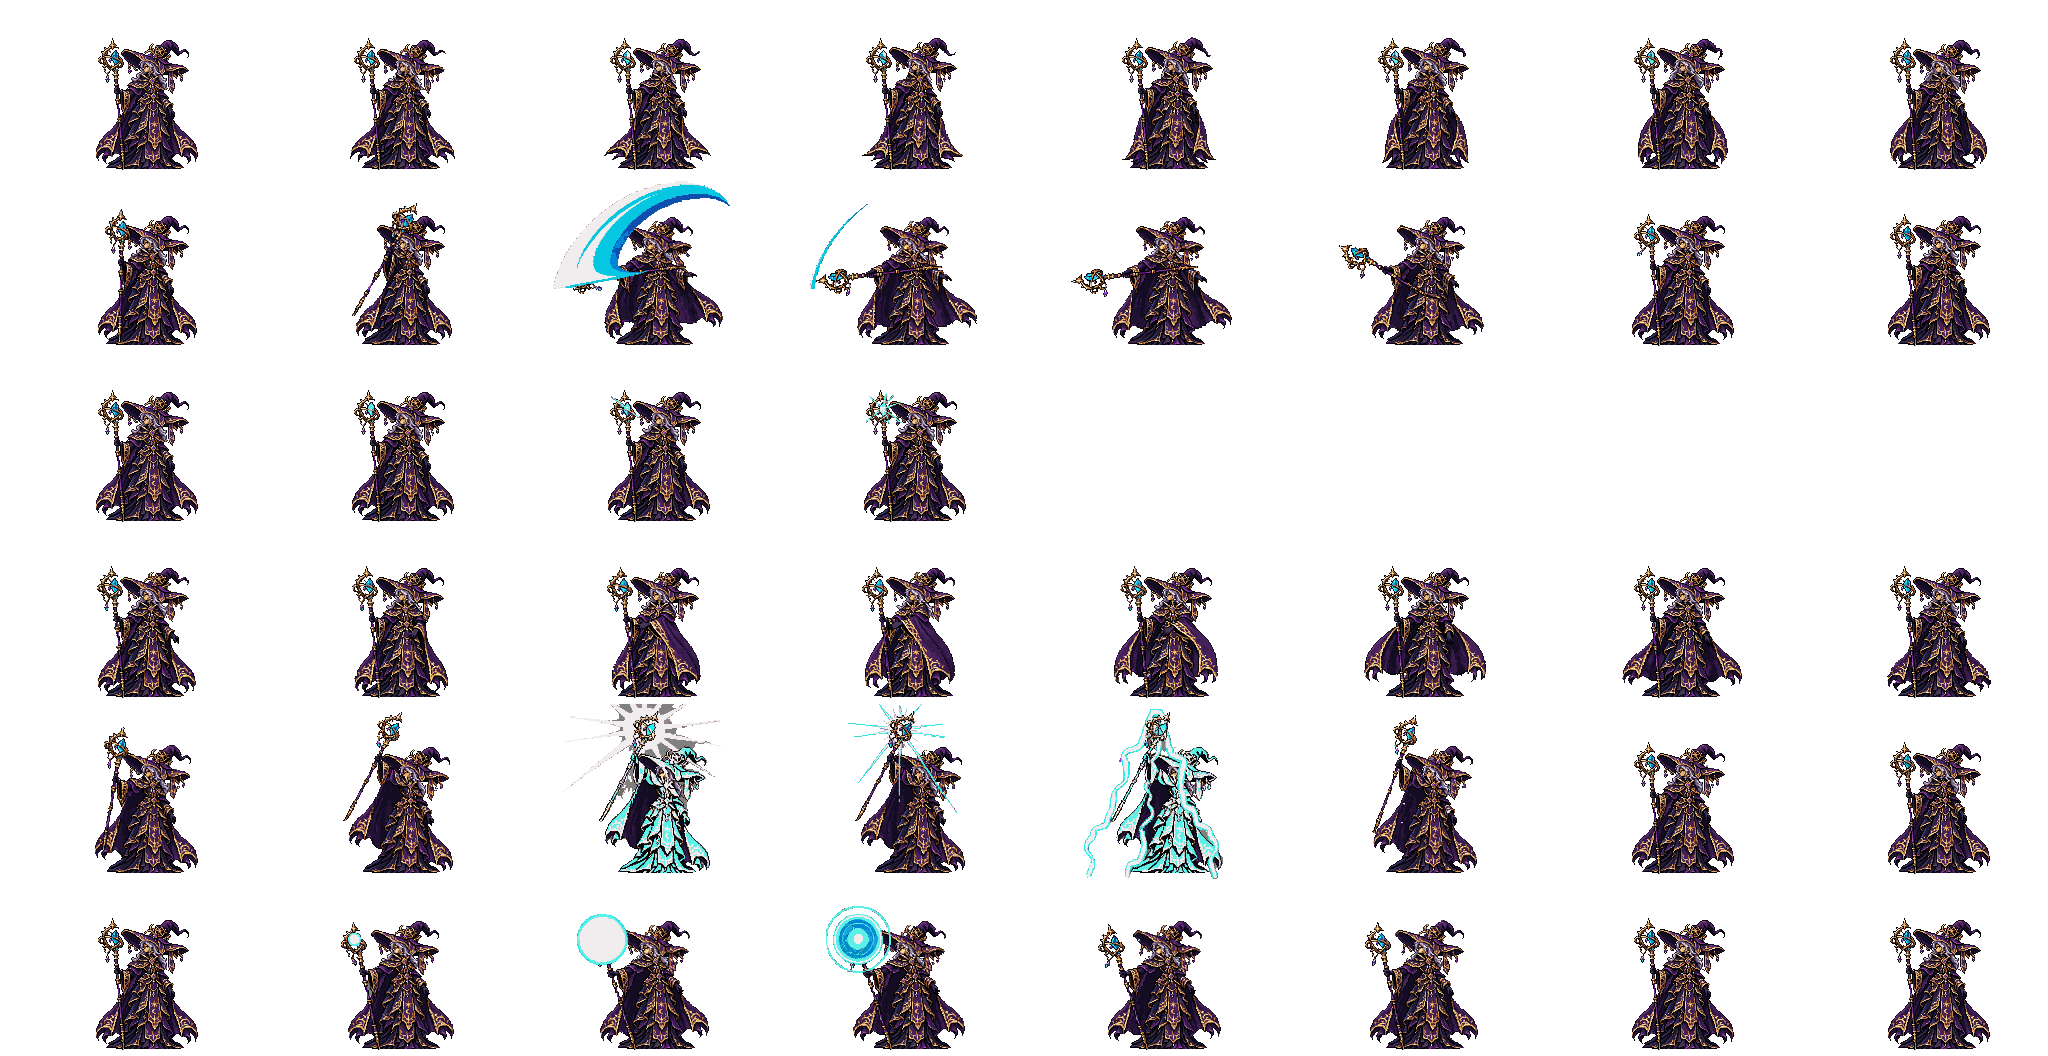
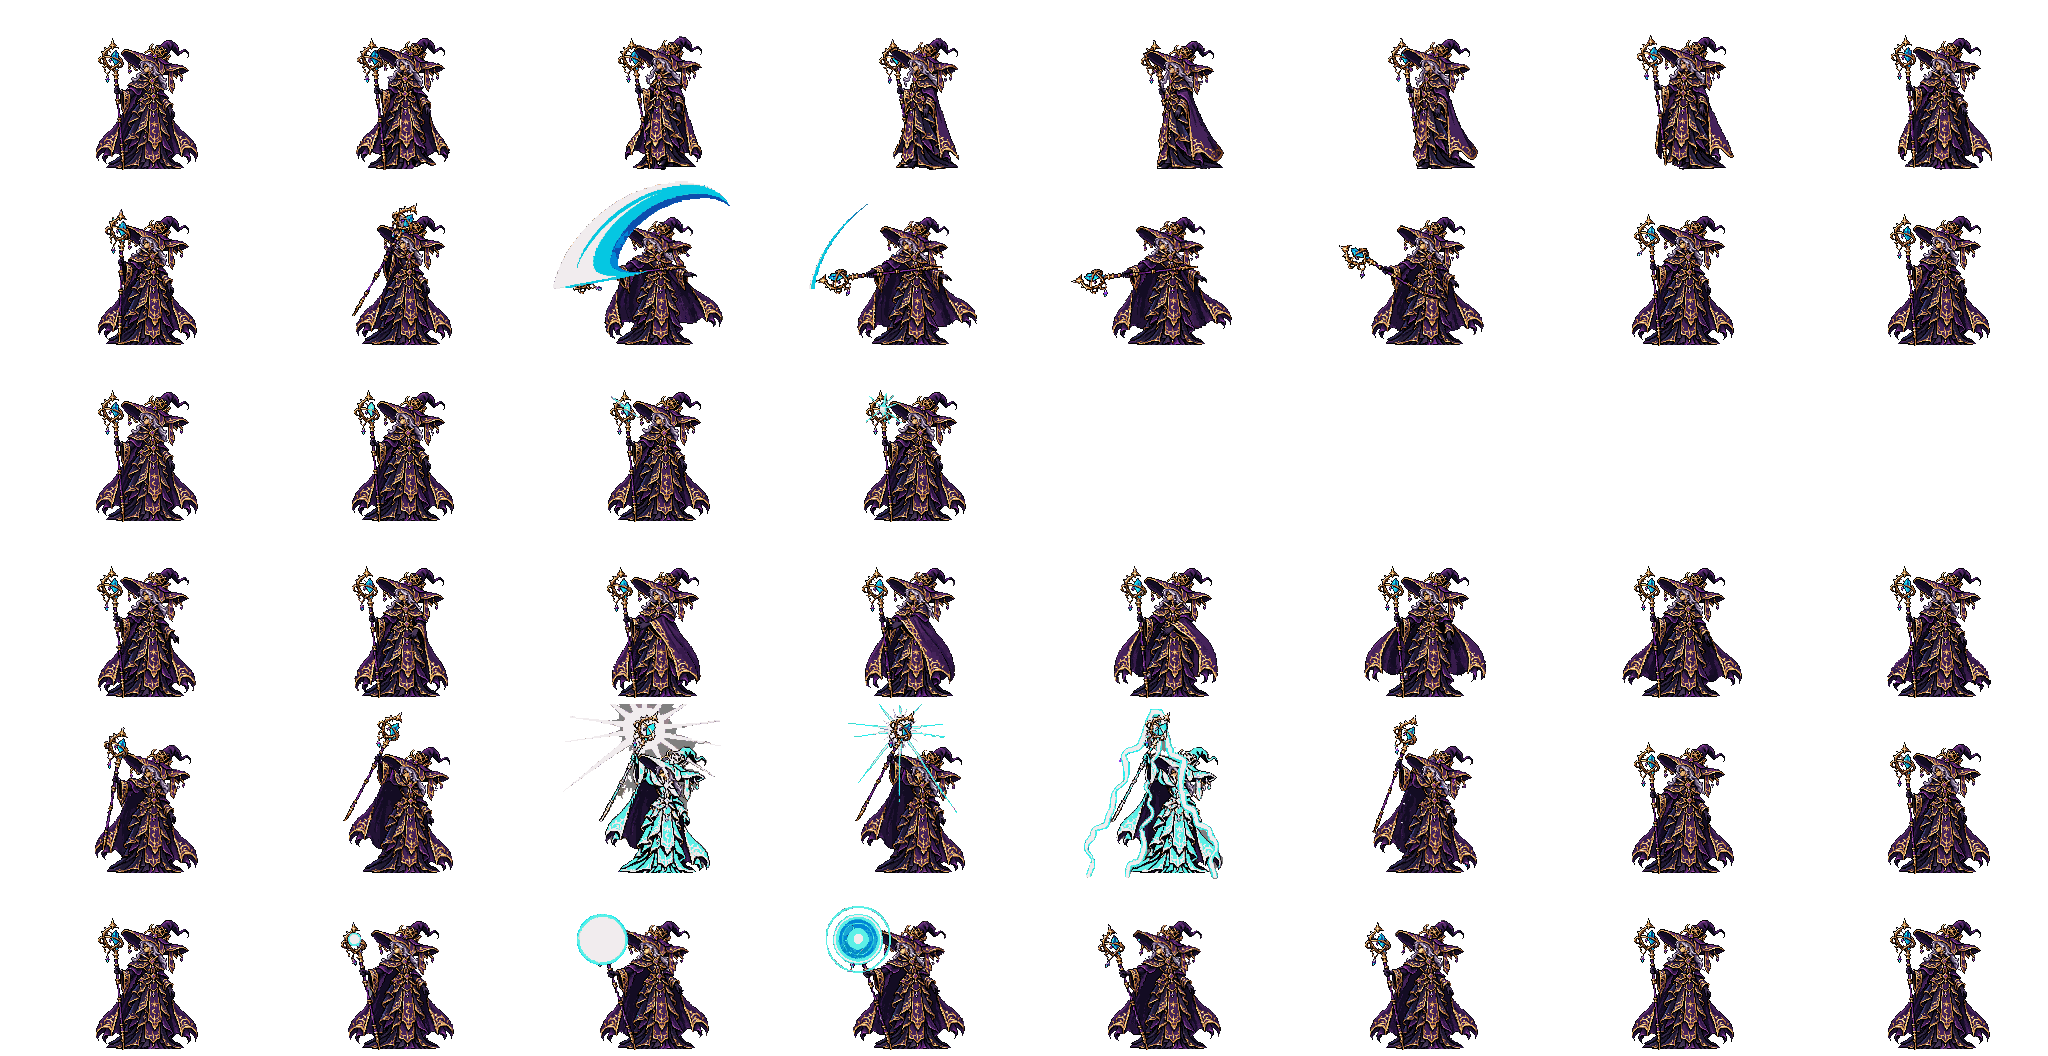
코드 최적화

diff --git a/view.py b/view.py
@@ -15,7 +15,6 @@ from asset_paths import asset_path
 import boss_skills
 import late_monster_motion
 from monster_attack import attack_pose, draw_attack_effect, draw_posed, draw_sheet, load_attack_fx, skill_pose
-from monster_walk import MONSTER_GAITS, MonsterWalk
 import player_attack
 from poison_fx import PoisonFx
 import pixel_sprites
@@ -187,10 +186,6 @@ class View:
         )
         for background in self.beast_jump_backgrounds:
             sdl2.SDL_SetTextureScaleMode(background.texture, sdl2.SDL_ScaleModeLinear)
-        self.floor_arenas = {
-            index: load_asset(f'층별맵/구간{index + 1:02d}_보스방.png')
-            for index in (2, 5, 8)
-        }
         self.boss_tall_arenas = {
             2: load_asset('map_sections/jailer_double_height_concept.png'),
             5: load_asset('map_sections/witch_double_height_concept.png'),
@@ -249,25 +244,12 @@ class View:
                       for row in range(2) for column in range(4)]
             self.monster_echo_walk[name] = WalkCycle(sheet, frames, ENEMY_KINDS[name].size, 9)
         self.attack_fx = load_attack_fx(ASSETS / 'attack_fx')
-        self.enemy_walk = {
-            name: MonsterWalk(load_asset(gait.sheet), gait)
-            for name, gait in MONSTER_GAITS.items()
-            if asset_path(gait.sheet).exists()   # 새 시트로 바꾸려고 지운 부위 그림은 건너뛰고 서 있는 그림으로 그린다
-        }
-        spider = load_asset('monster_spider_walk_sheet.png')
-        cell_w, cell_h = spider.w // 4, spider.h // 2
-        spider_frames = [(column * cell_w, row * cell_h + round(cell_h * 0.20),
-                          cell_w, round(cell_h * 0.65))
-                         for row in range(2) for column in range(4)]
-        self.enemy_walk['crawler'] = WalkCycle(spider, spider_frames, 70, 9)
-        for name, asset in (
-            ('magic_armor', 'magic-armor'), ('magic_armor_guard', 'magic-armor'), ('witch', 'witch'),
-        ):
-            sheet = load_asset(f'monster_concepts/{asset}-walk.png')
-            width, height = sheet.w // 4, sheet.h // 2
-            frames = [(column * width, row * height, width, height)
-                      for row in range(2) for column in range(4)]
-            self.enemy_walk[name] = WalkCycle(sheet, frames, ENEMY_KINDS[name].size, 9)
+        # 옛 걷기 그림은 마법 갑옷·갑옷 경비병만 쓴다 (나머지 몬스터는 PixelLab 시트나 후반 몬스터 모션)
+        armor = load_asset('monster_concepts/magic-armor-walk.png')
+        width, height = armor.w // 4, armor.h // 2
+        frames = [(column * width, row * height, width, height) for row in range(2) for column in range(4)]
+        self.enemy_walk = {name: WalkCycle(armor, frames, ENEMY_KINDS[name].size, 9)
+                           for name in ('magic_armor', 'magic_armor_guard')}
         self.enemies['magic_book'] = load_asset('monster_concepts/magic-book-sprite.png')
         self.enemies['potion_slime'] = load_asset('monster_concepts/potion-slime-sprite.png')
 
@@ -1083,22 +1065,15 @@ class View:
                 # 공격 중에는 monster_attack.py의 자세 스크립트대로 그린다.
                 actor = screen_enemy.actor
                 walk = self.enemy_walk.get(enemy.spawn.kind)
-                if isinstance(walk, MonsterWalk):
-                    actor.x += actor.facing * pose.dx
-                    walk.draw(actor, y + pose.dy, faces=-1, tint=tint, lean=pose.angle)
-                elif walk is not None:
+                if walk is not None:
                     frame = walk.frames[int(actor.walk_distance / walk.stride_per_frame) % len(walk.frames)]
                     draw_posed(walk.image, frame, x, y, walk.draw_height, actor.facing, pose, tint)
                 else:
                     image = self.enemies[enemy.spawn.kind]
                     draw_posed(image, (0, 0, image.w, image.h), x, y, kind.size, actor.facing, pose, tint)
                 draw_attack_effect(self.attack_fx, enemy.spawn.kind, x, y, actor.facing, enemy.windup, enemy.recovery)
-            elif enemy.spawn.kind in ('magic_armor', 'magic_armor_guard', 'witch'):
+            elif enemy.spawn.kind in self.enemy_walk:
                 self.enemy_walk[enemy.spawn.kind].draw(screen_enemy.actor, y, faces=-1, tint=tint)
-            elif enemy.actor.moving and enemy.spawn.kind in self.enemy_walk:
-                self.enemy_walk[enemy.spawn.kind].draw(
-                    screen_enemy.actor, y, faces=-1, tint=tint,
-                )
             else:
                 self._sprite(self.enemies[enemy.spawn.kind], screen_enemy.actor, kind.size, world.time, feet=feet, faces=-1, tint=tint)
             # 머리 위에 이름과 체력바. 벨 수 없는 적은 이름만 흐리게 보인다.

diff --git a/world.py b/world.py
@@ -30,7 +30,6 @@ ECHO_INVULNERABILITY = 0.92
 # 거미줄 그네 (거미 분신 전용). F로 붙이고 ←→로 반동, ↑↓로 줄을 감고 풀고,
 # Space로 흔들리던 속도 그대로 날아가며 놓거나 D로 그 자리에서 놓는다. 매달린 채 F를 다시 쏘면 새 지점에 옮겨 붙는다.
 SPIDER_WEB_TOP = 150       # 거미줄을 붙이는 천장 높이 (바닥 위)
-SPIDER_WEB_REACH = 90      # 바라보는 쪽으로 이만큼 앞에 붙인다
 SPIDER_GRAVITY = 1400      # px/s²
 SPIDER_PUMP = 3.2          # ←→로 주는 반동 (rad/s²)
 SPIDER_DAMPING = 0.15      # 초당 흔들림이 줄어드는 비율
@@ -1348,6 +1347,25 @@ class World:
         left, right = sorted((first.x, second.x))
         return not any(left < wall < right for wall in self._barriers(first.floor))
 
+    def _in_reach(self, enemy: Enemy, reach: float) -> bool:
+        """본체의 공격이 적에게 닿는가. 몸 폭(width)이 있는 적(보스)은 그림 크기 상자(폭 × 키)로 본다:
+        공격 범위(앞으로 reach, 뒤로 12)가 몸 폭 구간과 겹치고, 본체 높이가 발밑~머리 사이면 맞는다."""
+        me, it = self.player, enemy.actor
+        kind = ENEMY_KINDS[enemy.spawn.kind]
+        if not kind.width:
+            return (it.x - me.x) * me.facing >= -12 and self._clear_line(me, it, reach)
+        if me.elevator_target is not None or it.elevator_target is not None or me.floor != it.floor:
+            return False
+        half = kind.width / 2
+        low, high = sorted((me.x - me.facing * 12, me.x + me.facing * reach))
+        if high < it.x - half or it.x + half < low:
+            return False
+        if not it.jump_height - 30 <= me.jump_height <= it.jump_height + kind.size:
+            return False
+        nearest = min(max(me.x, it.x - half), it.x + half)   # 몸에서 본체와 가장 가까운 곳
+        left, right = sorted((me.x, nearest))
+        return not any(left < wall < right for wall in self._barriers(me.floor))
+
     def _attack(self, kind='slash'):
         weapon = WEAPONS[self.weapon_index]
         self.attack_kind = kind
@@ -1362,8 +1380,7 @@ class World:
         reach = round(weapon.reach * (0.8 if self.attack_kind == 'slash' else 1.3))
         damage = max(1, attack_power(self.level) + weapon.bonus + (1 if self.attack_kind == 'slash' else 0))
         for enemy in self.enemies:
-            offset = enemy.actor.x - self.player.x
-            if offset * self.player.facing < -12 or not self._clear_line(self.player, enemy.actor, reach):
+            if not self._in_reach(enemy, reach):
                 continue
             self.hit_sparks.append([enemy.actor.x, enemy.actor.floor, 0.0])
             if enemy.health is None:

diff --git a/stages.py b/stages.py
@@ -3,7 +3,6 @@ from math import pi, sin
 
 
 LEFT, RIGHT = 48, 2192
-FLOOR_Y = (156, 320, 484)
 STEP = 1 / 60
 MOVE_SPEED = 230
 MAX_RECORD_SECONDS = 10
@@ -189,6 +188,7 @@ class EnemyKind:
     damage: int = 0          # 본체가 맞을 때 깎이는 체력
     xp: int = 0              # 처치했을 때 얻는 경험치
     damage_ratio: float = 0  # 일부 적은 본체 최대 체력에 비례해 피해를 준다.
+    width: int = 0           # 그림의 몸 폭. 본체 공격은 폭 × 키(size) 상자에 닿으면 맞는다. 0이면 점으로 본다
 
 
 ENEMY_KINDS = {
@@ -198,7 +198,7 @@ ENEMY_KINDS = {
     'crawler': EnemyKind('monster_spider.png', 88, 185, 38, 10, 100, damage=7, xp=10),
     # 층 유령: 정해진 높이에서 좌우로 떠다니며 닿으면 최대 체력의 35% (세 번 닿으면 쓰러진다).
     'tier_ghost': EnemyKind('monster_03_watcher.png', 60, 0, 30, 8, 70, xp=6, damage_ratio=0.35),
-    'jailer_boss': EnemyKind('monster_concepts/prison-jailer-boss.png', 65, 235, 70, 95, 275, damage=8, xp=80),
+    'jailer_boss': EnemyKind('monster_concepts/prison-jailer-boss.png', 65, 235, 70, 95, 275, damage=8, xp=80, width=240),
     'magic_book': EnemyKind('monster_concepts/magic-book.png', 75, 175, 38, 15, 76, damage=8, xp=10),
     'potion_slime': EnemyKind('monster_concepts/potion-slime.png', 55, 160, 36, 22, 85, damage=9, xp=14),
     'magic_armor': EnemyKind('monster_concepts/magic-armor.png', 65, 180, 48, 32, 115, damage=11, xp=20),
@@ -207,8 +207,8 @@ ENEMY_KINDS = {
     'time_thief': EnemyKind('monster_concepts/time-thief.png', 65, 175, 42, 20, 108, damage=7, xp=16),
     'cursed_lantern': EnemyKind('monster_concepts/cursed-lantern.png', 70, 185, 42, 16, 112, damage=7, xp=14),
     'broken_jester': EnemyKind('monster_concepts/broken-jester.png', 75, 185, 40, 18, 104, damage=7, xp=15),
-    'grand_witch': EnemyKind('monster_concepts/grand-witch-boss.png', 65, 220, 55, 145, 268, damage=11, xp=120),
-    'echo_knight': EnemyKind('monster_concepts/echo-knight-boss.png', 70, 260, 65, 180, 240, damage=12, xp=160),
+    'grand_witch': EnemyKind('monster_concepts/grand-witch-boss.png', 65, 220, 55, 145, 268, damage=11, xp=120, width=204),
+    'echo_knight': EnemyKind('monster_concepts/echo-knight-boss.png', 70, 260, 65, 180, 240, damage=12, xp=160, width=218),
 }
 
 BOSS_KINDS = frozenset(('jailer_boss', 'grand_witch', 'echo_knight'))

diff --git a/test_boss_hitbox.py b/test_boss_hitbox.py
@@ -1,0 +1,48 @@
+import unittest
+
+from stages import ENEMY_KINDS, WEAPONS
+from world import World
+
+
+class BossHitboxTests(unittest.TestCase):
+    """보스는 그림 크기 상자(몸 폭 × 키)로 맞는다: 몸 가장자리나 발판 위에서 때려도 맞는다."""
+
+    def setUp(self):
+        self.w = World(2)   # 간수의 방
+        self.boss = next(e for e in self.w.enemies if e.spawn.kind == 'jailer_boss')
+        self.half = ENEMY_KINDS['jailer_boss'].width / 2
+        self.reach = WEAPONS[self.w.weapon_index].reach * 0.8   # 베기
+        self.me = self.w.player
+        self.me.floor, self.me.facing = self.boss.actor.floor, 1
+
+    def test_hits_body_edge_even_when_center_is_out_of_reach(self):
+        self.me.x = self.boss.actor.x - self.half - self.reach / 2
+        self.assertGreater(self.boss.actor.x - self.me.x, self.reach)   # 예전 판정(중심까지 거리)으로는 안 닿는다
+        self.assertTrue(self.w._in_reach(self.boss, self.reach))
+
+    def test_hits_from_a_platform_or_mid_jump(self):
+        self.me.x = self.boss.actor.x - self.half
+        for height in (38, 76, 150):
+            self.me.base = height   # 발판 높이 (jump_height는 여기서 계산된다)
+            self.assertTrue(self.w._in_reach(self.boss, self.reach), height)
+
+    def test_misses_when_facing_away_or_above_the_head(self):
+        self.me.x = self.boss.actor.x - self.half - self.reach / 2
+        self.me.facing = -1
+        self.assertFalse(self.w._in_reach(self.boss, self.reach))
+        self.me.facing = 1
+        self.me.base = ENEMY_KINDS['jailer_boss'].size + 40
+        self.assertFalse(self.w._in_reach(self.boss, self.reach))
+
+    def test_small_monsters_still_use_a_point(self):
+        w = World(0)
+        spider = next(e for e in w.enemies if e.spawn.kind == 'crawler')
+        w.player.floor, w.player.facing = spider.actor.floor, 1
+        w.player.x = spider.actor.x - self.reach - 5
+        self.assertFalse(w._in_reach(spider, self.reach))
+        w.player.x = spider.actor.x - self.reach + 5
+        self.assertTrue(w._in_reach(spider, self.reach))
+
+
+if __name__ == '__main__':
+    unittest.main()

diff --git a/tools/monster_pixel/pixellab_witch.py b/tools/monster_pixel/pixellab_witch.py
@@ -19,9 +19,11 @@ SUBJECT = {'subject_description': 'a tall grand witch with a huge purple pointed
                                   'ornate purple and gold robes and a crystal staff',
            'initial_pose': 'standing upright holding the crystal staff in her front hand', 'direction': 'west'}
 ROWS = (                   # 줄 순서는 monster_sprite.py(GRAND_WITCH의 skills)와 같다 / (이름, 칸 수, 시드, 동작)
-    # 걷기 시드 1은 지팡이 머리가 떨어져 위에 떠다녔다
-    ('walk', 8, 2, 'walks forward in place step by step in a looping walk cycle, the hem of the long robe swings with '
-                   'each step and the body bobs slightly, she keeps holding the staff upright in her front hand the whole time'),
+    # 걷기: 시드 1은 지팡이 머리가 떨어져 떠다녔고, 로브만 흔드는 지시(시드 2)는 제자리에 선 것처럼 보였다.
+    # 걸음마다 몸이 오르내리고 발끝이 보이게 지시해 시드 3·4·5 중 가장 걷는 느낌이 나는 3을 골랐다.
+    ('walk', 8, 3, 'walks forward to the left with clear heavy steps in a looping walk cycle: her body rises and dips with '
+                   'every step, the tips of her feet peek out from under the robe hem one after the other, she plants the '
+                   'crystal staff on the ground like a walking stick with each stride, the long robe and cape swing with the motion'),
     ('attack', 8, 1, 'swings the crystal staff forward in a sharp magic strike in front of her, then returns to her stance'),
     ('idle', 4, 1, 'breathes slowly in place, the hair and robes drift gently, the crystal on the staff glimmers'),
     ('gravity', 8, 1, 'spreads her free hand forward and pulls it back toward herself as if drawing everything in, '

diff --git a/main.py b/main.py
@@ -8,7 +8,7 @@ from pico2d import (
 )
 from pico2d import pico2d as canvas
 
-from stages import BOSS_KINDS, STAGES, STAGE_GROUPS, STEP, next_section_in_stage, stage_group_index
+from stages import STAGE_GROUPS, STEP, next_section_in_stage, stage_group_index
 from title_menu import BossSelector, TitleMenu
 from view import HEIGHT, WIDTH, View
 from world import Motion, World

diff --git a/boss_skills.py b/boss_skills.py
@@ -80,7 +80,6 @@ SKILLS = {
 }
 CHARGE_SPEED = 520
 CHAIN_REACH = 190  # 쇠사슬이 닿는 앞쪽 거리
-CHAIN_CRACK = 0.27 # chain-whip 시트에서 사슬 끝이 터지는 시각
 ROCK_FALL = 0.9    # 바위가 떨어지는 데 걸리는 시간
 
 

diff --git a/late_monster_motion.py b/late_monster_motion.py
@@ -1,5 +1,5 @@
 """후반 몬스터의 대기·이동과 공격 자세를 그린다."""
-from math import pi, sin
+from math import sin
 
 from pico2d import pico2d as canvas
 

diff --git a/test_asset_paths.py b/test_asset_paths.py
@@ -1,6 +1,5 @@
 import json
 import unittest
-from pathlib import Path
 
 from asset_paths import ASSET_ROOT, NAME_MAP, asset_path
 
